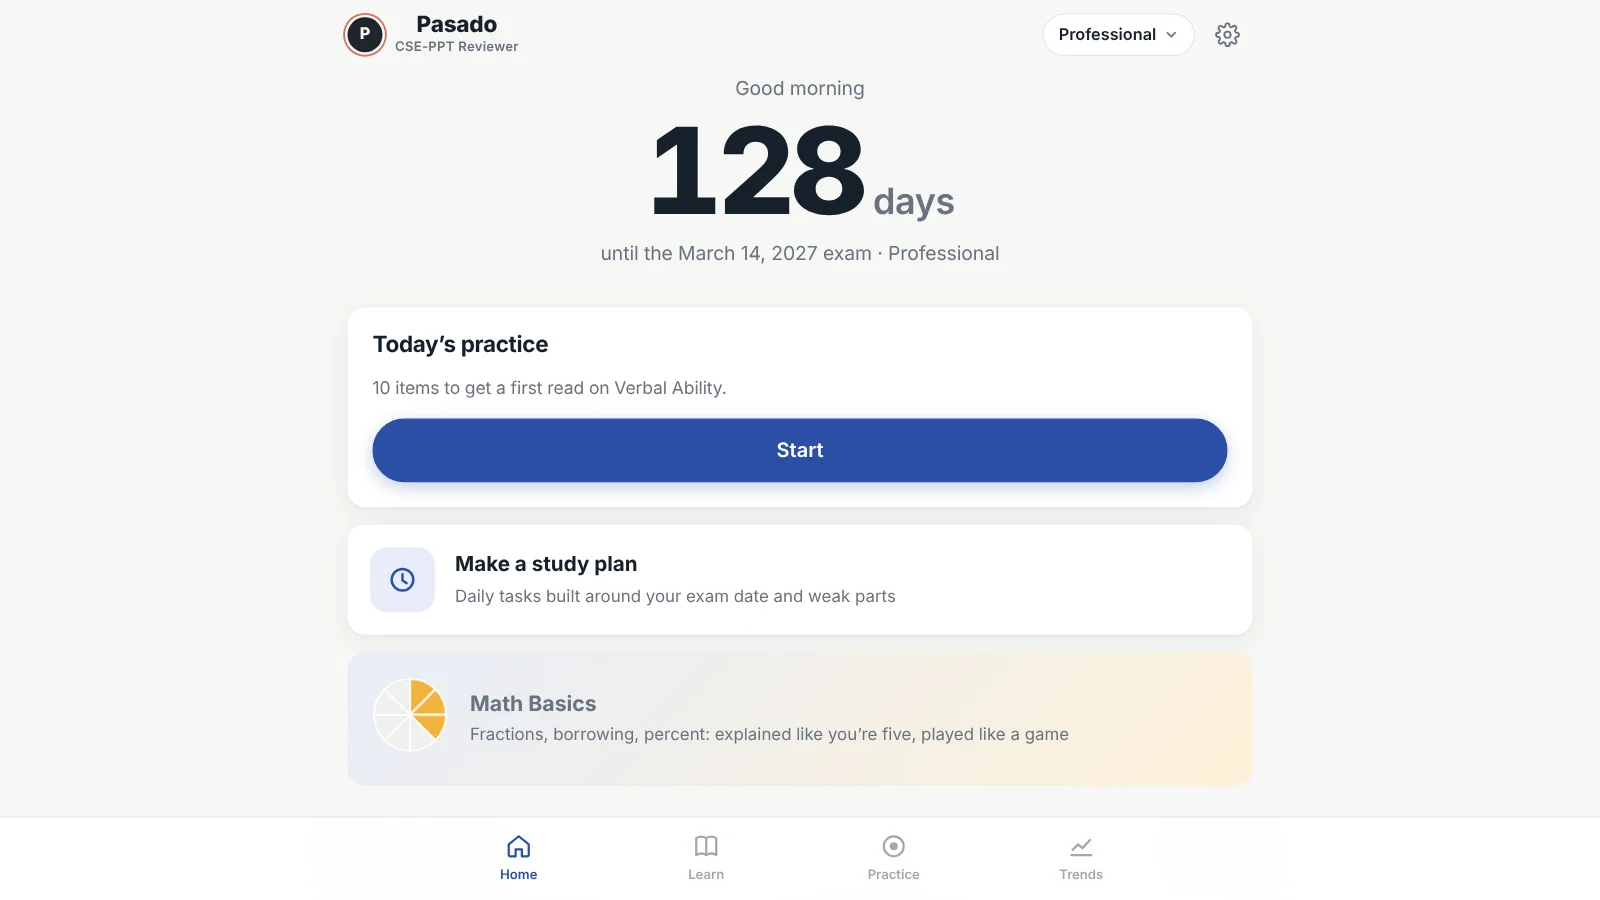
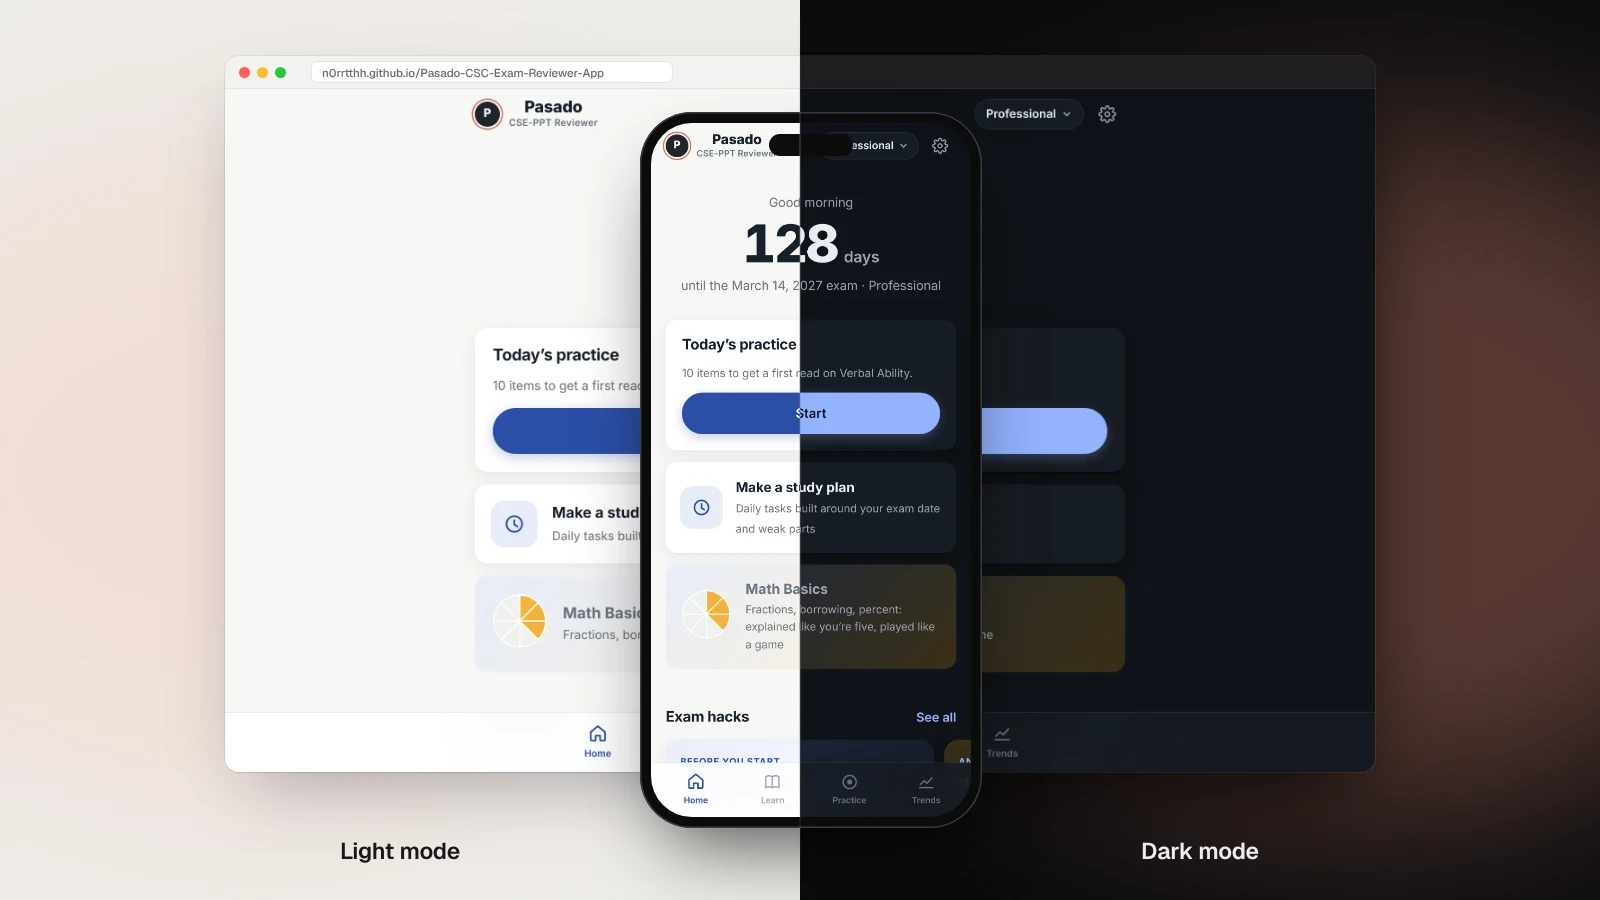
style: fix photos

diff --git a/src/lib/data.ts b/src/lib/data.ts
@@ -12,6 +12,7 @@ export interface Project {
   outcome: string;
   technologies: string[];
   type: string;
+  /** Empty when unknown; the UI then shows the type alone. */
   year: string;
   color: string;
   github?: string;
@@ -123,43 +124,24 @@ export const PROJECTS: Project[] = [
 
   },
   {
-    id: "pasado-web",
+    id: "pasado",
     title: "Pasado",
-    subtitle: "Civil Service Exam reviewer",
+    subtitle: "Civil Service Exam reviewer · Web + Android",
     description:
-      "An offline-first reviewer for the Philippine Civil Service Exam: timed mock exams, drills, flashcards and math lessons, installable from the browser.",
+      "An offline-first reviewer for the Philippine Civil Service Exam: timed mock exams, drills, flashcards and math lessons. Install it from the browser or get the Android app.",
     problem:
       "Civil Service Exam reviewers are scattered PDFs and paid apps, and most don't work offline on the phones test-takers actually study on.",
     solution:
-      "One vanilla JavaScript app, packaged by a build script into an installable web app with a service worker that caches every file for offline use.",
+      "One vanilla JavaScript app, packaged by a build script into an installable offline web app (service worker + manifest) and wrapped with Capacitor for Android, which adds haptics, daily reminders and read-aloud.",
     outcome:
-      "Mock exams for both Professional and Subprofessional levels, explanations for every answer, a study plan and a math game, with progress kept on the device.",
-    technologies: ["JavaScript", "HTML", "CSS", "PWA"],
-    type: "Web Application",
+      "Mock exams for both Professional and Subprofessional levels, explanations for every answer, a study plan and a math game, in light and dark mode, with progress kept on the device.",
+    technologies: ["JavaScript", "PWA", "Capacitor", "Android"],
+    type: "Web + Mobile Application",
     year: "2026",
     color: "#2b4fa8",
-    github: "https://github.com/N0rrtthh/Pasado---CSC-Exam-Reviewer",
-    live: "https://n0rrtthh.github.io/Pasado---CSC-Exam-Reviewer/",
-    featured: true,
-  },
-  {
-    id: "pasado-mobile",
-    title: "Pasado for Android",
-    subtitle: "Offline exam reviewer app",
-    description:
-      "The same Pasado reviewer as a native Android app, built from the web codebase with Capacitor.",
-    problem:
-      "Test-takers study on their phones, often with patchy data, and want reminders without installing anything heavy.",
-    solution:
-      "Wrapped the web build with Capacitor and added native haptics, daily reminder notifications and read-aloud, detected at runtime so the web version runs the same code.",
-    outcome:
-      "A small offline APK that keeps every answer, score and study plan on the phone, with no account, ads or tracking.",
-    technologies: ["Capacitor", "JavaScript", "Android"],
-    type: "Mobile Application",
-    year: "2026",
-    color: "#c96f55",
-    github: "https://github.com/N0rrtthh/Pasado---CSC-Exam-Reviewer",
-    download: { label: "Download APK", href: "https://github.com/N0rrtthh/Pasado---CSC-Exam-Reviewer/releases/latest" },
+    github: "https://github.com/N0rrtthh/Pasado-CSC-Exam-Reviewer-App",
+    live: "https://n0rrtthh.github.io/Pasado-CSC-Exam-Reviewer-App/",
+    download: { label: "Download APK", href: "https://github.com/N0rrtthh/Pasado-CSC-Exam-Reviewer-App/releases/latest" },
     featured: true,
   },
   {
@@ -201,7 +183,7 @@ export const PROJECTS: Project[] = [
     color: "#8b5cf6",
     github: "https://github.com/N0rrtthh/WaveLength",
     live: "https://n0rrtthh.github.io/WaveLength/",
-    featured: false,
+    featured: true,
   },
   {
     id: "quick-attend",
@@ -220,6 +202,85 @@ export const PROJECTS: Project[] = [
     year: "2024",
     color: "#06b6d4",
     github: "https://github.com/N0rrtthh/Quick-Attend-Mobile",
+    live: "https://quick-attend-web-1dsail.flutterflow.app/",
+    featured: true,
+  },
+  {
+    id: "neon-smash",
+    title: "Neon Smash",
+    subtitle: "Arcade brick-breaker in Python",
+    description:
+      "A neon brick-breaker: bounce the ball off the paddle to clear the wall of blocks, with a title screen, player names and a top-scores leaderboard saved between runs.",
+    problem: "",
+    solution: "Built with Python and Pygame: paddle and ball physics, block collisions, a typed player name and a scoreboard kept in a local file.",
+    outcome: "",
+    technologies: ["Python", "Pygame"],
+    type: "Game",
+    year: "2023",
+    color: "#22d3ee",
+    github: "https://github.com/N0rrtthh/Neon-Smash",
+    featured: false,
+  },
+  {
+    id: "schedease",
+    title: "SchedEase",
+    subtitle: "Classroom scheduling prototype",
+    description:
+      "A clickable Figma prototype of an organizing system for simplifying classroom scheduling at Cavite State University, with sign-in and sign-up flows.",
+    problem: "",
+    solution: "",
+    outcome: "",
+    technologies: ["Figma", "Prototyping", "UI/UX"],
+    type: "UI/UX Prototype",
+    year: "",
+    color: "#16a34a",
+    live: "https://figma.fun/1LmgU7",
+    featured: false,
+  },
+  {
+    id: "quest-adventure-land",
+    title: "Quest of the Adventure Land",
+    subtitle: "Platformer game",
+    description: "A 2D platformer game developed in GDevelop.",
+    problem: "",
+    solution: "",
+    outcome: "",
+    technologies: ["GDevelop"],
+    type: "Game",
+    year: "",
+    color: "#f59e0b",
+    live: "https://shorturl.at/4yaOr",
+    featured: false,
+  },
+  {
+    id: "north",
+    title: "NORTH",
+    subtitle: "Web portfolio for motion graphics and animation",
+    description: "My first portfolio website: a showcase for motion graphics and animation work, built by hand in HTML, CSS and JavaScript.",
+    problem: "",
+    solution: "",
+    outcome: "",
+    technologies: ["HTML", "CSS", "JavaScript"],
+    type: "Web Application",
+    year: "2022",
+    color: "#ec4899",
+    live: "https://n0rrtthh.github.io/NORTH/",
+    featured: false,
+  },
+  {
+    id: "professional-portfolio",
+    title: "Professional Portfolio",
+    subtitle: "Recruiter-focused portfolio site",
+    description:
+      "The quieter companion to this site: projects, certifications and a generated resume, built for recruiters to scan fast.",
+    problem: "",
+    solution: "Built with Astro, with a live liquid-glass lens on the navigation pill, light and dark themes, and certifications managed from a JSON file.",
+    outcome: "",
+    technologies: ["Astro", "TypeScript", "CSS"],
+    type: "Web Application",
+    year: "2026",
+    color: "#f97316",
+    live: "https://n0rrtthh.github.io/Portfolio-Professional-Website/",
     featured: false,
   },
 ];

diff --git a/src/components/sections/Projects.tsx b/src/components/sections/Projects.tsx
@@ -82,7 +82,7 @@ function MobileProjectCarousel({ onSelect }: { onSelect: (p: Project) => void })
             <div className="relative z-10 p-6">
               <div className="flex items-center gap-2 mb-2">
                 <span className="h-2 w-2 rounded-full animate-pulse" style={{ backgroundColor: project.color }} />
-                <span className="chapter-label">{project.type} · {project.year}</span>
+                <span className="chapter-label">{project.type}{project.year && ` · ${project.year}`}</span>
               </div>
               <h3 className="font-display text-2xl font-bold text-[var(--color-starlight)]">{project.title}</h3>
               <p className="mt-1 font-body text-sm text-[var(--color-silver)] line-clamp-2">{project.subtitle}</p>
@@ -278,7 +278,7 @@ export default function Projects() {
                       style={{ backgroundColor: project.color }}
                     />
                     <span className="chapter-label">
-                      {project.type} · {project.year}
+                      {project.type}{project.year && ` · ${project.year}`}
                     </span>
                   </div>
 
@@ -406,7 +406,7 @@ export default function Projects() {
                   <div className="flex items-start justify-between gap-4 border-b border-[var(--color-glass-border)] px-6 pb-5 pt-6 sm:px-8">
                     <div className="min-w-0">
                       <p className="font-mono text-[11px] uppercase tracking-[0.2em] text-[var(--color-ash)]">
-                        {selectedProject.type} · {selectedProject.year}
+                        {selectedProject.type}{selectedProject.year && ` · ${selectedProject.year}`}
                       </p>
                       <h3 className="mt-1.5 font-display text-2xl font-bold text-[var(--color-starlight)] sm:text-3xl">
                         {selectedProject.title}
@@ -472,7 +472,9 @@ export default function Projects() {
                       {selectedProject.description}
                     </p>
 
-                    {/* Problem / Solution / Outcome — quiet rows, one accent */}
+                    {/* Problem / Solution / Outcome — quiet rows, one accent.
+                        Rows without text are skipped (small side projects). */}
+                    {[selectedProject.problem, selectedProject.solution, selectedProject.outcome].some(Boolean) && (
                     <dl className="mt-6 divide-y divide-[var(--color-glass-border)] border-y border-[var(--color-glass-border)]">
                       {(
                         [
@@ -480,7 +482,7 @@ export default function Projects() {
                           ["Solution", selectedProject.solution],
                           ["Outcome", selectedProject.outcome],
                         ] as const
-                      ).map(([label, text]) => (
+                      ).filter(([, text]) => text).map(([label, text]) => (
                         <div
                           key={label}
                           className="grid grid-cols-[5.5rem_1fr] gap-4 py-3.5 sm:grid-cols-[7rem_1fr]"
@@ -494,6 +496,7 @@ export default function Projects() {
                         </div>
                       ))}
                     </dl>
+                    )}
 
                     {/* Stack */}
                     <div className="mt-6 pb-1">

diff --git a/src/data/projectImages.ts b/src/data/projectImages.ts
@@ -7,8 +7,10 @@ import waterwiseImg from "@/../public/projects/waterwise.webp";
 import quickAttendImg from "@/../public/projects/quick-attend.webp";
 import resumakerImg from "@/../public/projects/resumaker.webp";
 import pasadoImg from "@/../public/projects/pasado.webp";
-import pasadoMobileHomeImg from "@/../public/projects/pasado-mobile-home.webp";
-import pasadoMobileQuestionImg from "@/../public/projects/pasado-mobile-question.webp";
+import neonSmashImg from "@/../public/projects/neon-smash.webp";
+import schedeaseImg from "@/../public/projects/schedease.webp";
+import northImg from "@/../public/projects/north.webp";
+import professionalPortfolioImg from "@/../public/projects/professional-portfolio.webp";
 import jasfocusImg from "@/../public/projects/jasfocus.webp";
 import wavelengthImg from "@/../public/projects/wavelength.webp";
 
@@ -40,7 +42,11 @@ export const PROJECT_IMAGES: Record<string, StaticImageData> = {
   waterwise: waterwiseImg,
   "quick-attend": quickAttendImg,
   resumaker: resumakerImg,
-  "pasado-web": pasadoImg,
+  pasado: pasadoImg,
+  "neon-smash": neonSmashImg,
+  schedease: schedeaseImg,
+  north: northImg,
+  "professional-portfolio": professionalPortfolioImg,
   jasfocus: jasfocusImg,
   wavelength: wavelengthImg,
 };
@@ -51,7 +57,6 @@ export const PROJECT_IMAGES: Record<string, StaticImageData> = {
    is the hero screen, the rest stand behind it. */
 export const PROJECT_SCREENS: Record<string, StaticImageData[]> = {
   "bidaboss-mobile": [bidabossMobileDashboardImg, bidabossMobileSplashImg],
-  "pasado-mobile": [pasadoMobileHomeImg, pasadoMobileQuestionImg],
 };
 
 export function getProjectImage(id: string): StaticImageData | undefined {

diff --git a/src/components/eva/EvaProjects.tsx b/src/components/eva/EvaProjects.tsx
@@ -166,7 +166,7 @@ const ProjectCard = memo(function ProjectCard({
                 {project.type.toUpperCase()}
               </span>
               <span className="text-[var(--color-ash)]">
-                [SCHEMATIC_v{project.year}]
+                [SCHEMATIC_v{project.year || "0"}]
               </span>
             </div>
 
@@ -225,7 +225,7 @@ const ProjectCard = memo(function ProjectCard({
           VIEW TACTICAL DATA <ArrowUpRight size={14} />
         </span>
         <span className="text-[10px] text-[var(--color-ash)]">
-          [{project.year}]
+          {project.year && `[${project.year}]`}
         </span>
       </div>
     </motion.article>
@@ -399,7 +399,7 @@ export default function EvaProjects() {
                     <Code2 size={16} />
                     <span>MAGI ANALYSIS // {selectedProject.id.toUpperCase()}</span>
                     <span className="text-[var(--color-ash)]">
-                      [{selectedProject.year}]
+                      {selectedProject.year && `[${selectedProject.year}]`}
                     </span>
                   </div>
                   <h3 className="font-display text-3xl font-extrabold text-white uppercase sm:text-4xl">

diff --git a/src/data/experience.ts b/src/data/experience.ts
@@ -6,7 +6,7 @@ import type { TimelineEntry } from "@/types/experience";
    "My Experience" cinematic flight-path section.
    ──────────────────────────────────────────────────────────
    Every line here is something that can be backed up: the
-   internship and org roles come from the résumé, the WaterWise
+   internship and org roles come from the resume, the WaterWise
    numbers from the defended thesis manuscript. No invented
    metrics, awards or uptime figures.
 
